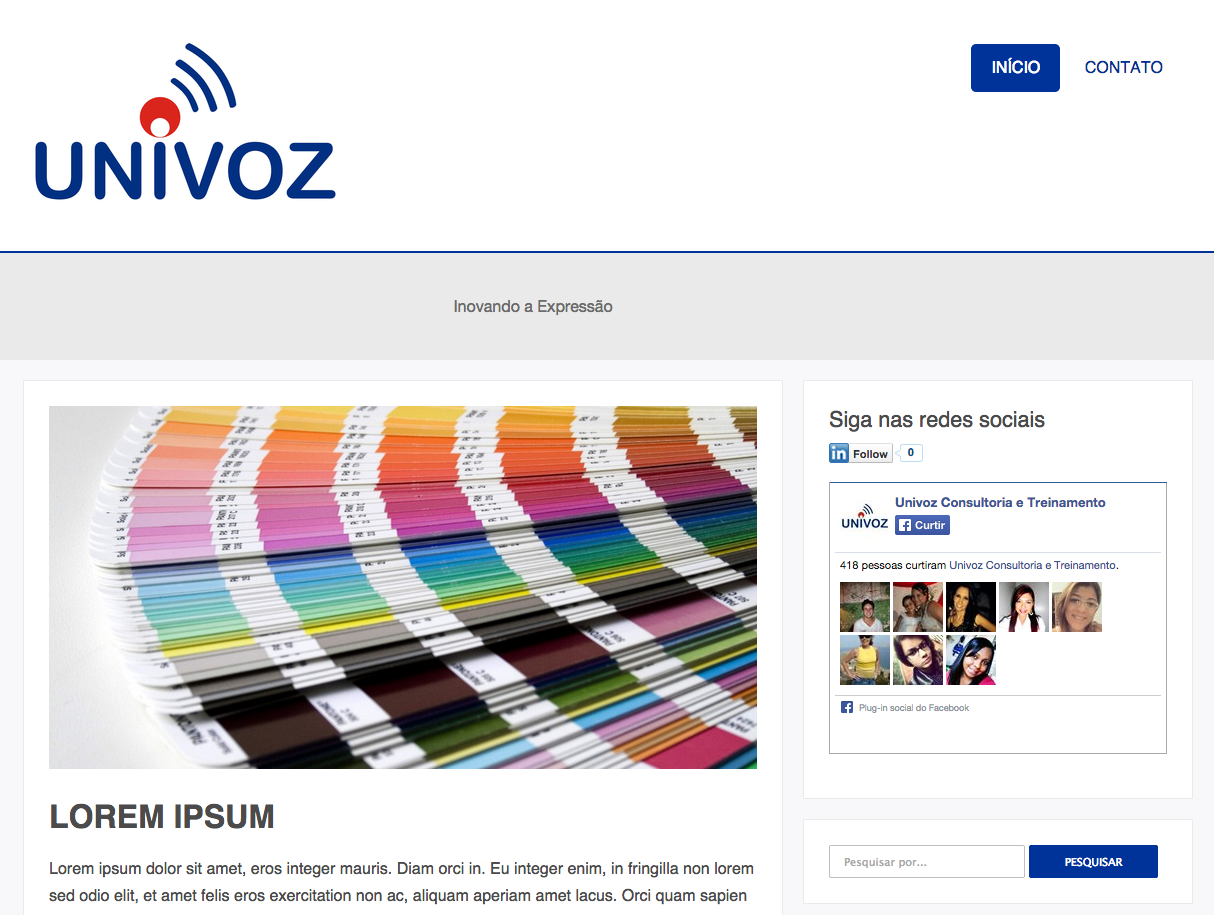
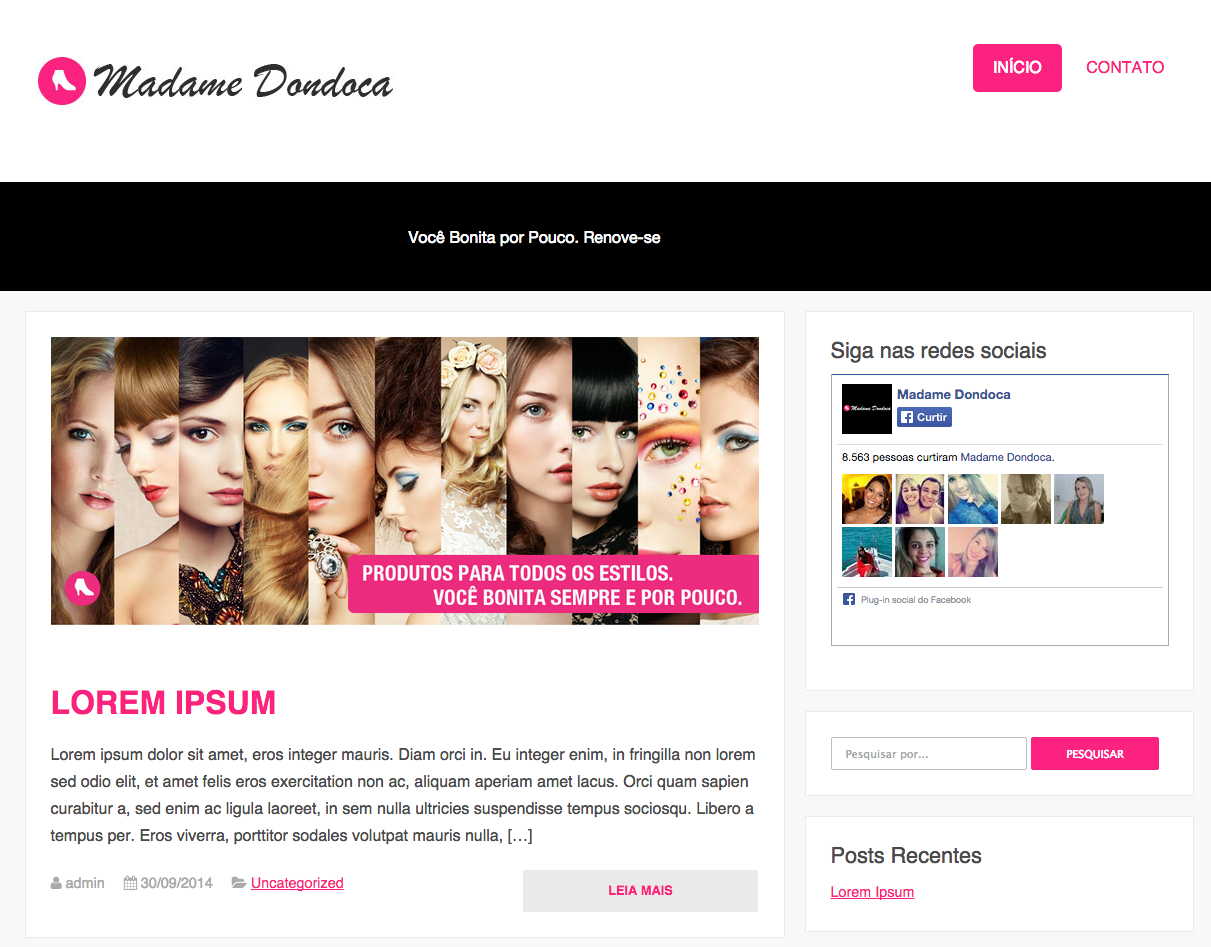
CSS done

diff --git a/assets/css/custom.css b/assets/css/custom.css
@@ -7,23 +7,23 @@ body {
   line-height: 1.7em;
 }
 h1, h2, h3, h4 { color: #4B4B4B; }
-a { color: #003399; }
+a { color: #fb237f; }
 h1 { font-size: 2em; }
 h2 { font-size: 1.5em; }
 h3 { font-size: 1.35em; }
 
 /* Header */
-#top-header { border-bottom: 2px solid #003399; }
-#top-header #primary-nav ul li.current_page_item a { background-color: #003399; color: #FFF; }
-#top-header #primary-nav ul li a:hover { background-color: rgba(0, 51, 153, 0.4); }
-#about-subscribe { background-color: #EAEAEA; }
-#about-subscribe h2 { color: #6B6B6B; }
+#top-header { border-bottom: 2px solid #000; }
+#top-header #primary-nav ul li.current_page_item a { background-color: #fb237f; color: #FFF; }
+#top-header #primary-nav ul li a:hover { background-color: #000; }
+#about-subscribe { background-color: #000; }
+#about-subscribe h2 { color: #fff; }
 #headline { background: #3f98b5; }
 #headline h3 { color: #FFF; font-size: 1.5em; }
 
 /* Post */
 .blog-post .post-meta { color: #AAA; }
-.blog-post h3, .blog-post h3 a { color: #4B4B4B; }
+.blog-post h3 a { color: #fb237f; }
 .post-date {
   background: #eaeaea;
   background: -moz-linear-gradient(-45deg,  #eaeaea 0%, #eaeaea 50%, #dddddd 51%, #dddddd 100%); /* FF3.6+ */
@@ -37,27 +37,27 @@ h3 { font-size: 1.35em; }
 }
 .read-more {
   background-color: #EAEAEA;
-  color: #003399;
+  color: #fb237f;
 }
 .read-more:hover {
-  background-color: rgba(0, 51, 153, 0.6);
-  color: #FFF;
+  background-color: #000;
+  color: #fb237f;
 }
 
 /* Footer */
-footer #top-footer { background-color: #003399; color: #FFF; }
+footer #top-footer { background-color: #000; color: #FFF; }
 footer #top-footer #social-icons li a, #top-footer h3, #top-footer a { color: #FFF; }
-footer #top-footer #social-icons li a:hover { color: #cc3300; }
+footer #top-footer #social-icons li a:hover { color: #fb237f; }
 footer #bottom-footer { background-color: #27282C; color: #FFF; }
 
 /* Buttons */
 #scroll-top a:hover,
 input[type="submit"],
 #comments .comment-reply-link {
-  background-color: #003399;
+  background-color: #fb237f;
   color: #FFF;
 }
 input[type="submit"]:hover,
 #comments .comment-reply-link:hover {
-  background-color: rgba(0, 51, 153, 0.6);
+  background-color: #000;
 }

diff --git a/assets/css/base.css b/assets/css/base.css
@@ -85,7 +85,7 @@ footer #social-icons li a { -webkit-transition: all .2s ease-in-out; -moz-transi
 #scroll-top a { padding: 4px 10px; -webkit-border-radius: 4px; -moz-border-radius: 4px; border-radius: 4px; background: #818c90; position: fixed; bottom: 48px; right: 32px; display: none; opacity: 0.89; filter: alpha(opacity=89); z-index: 999; text-align: center; }
 #scroll-top a i { font-size: 30px; color: #fff; }
 #scroll-top a, #scroll-top a i { cursor: pointer; -webkit-transition: all .2s ease-in-out; -moz-transition: all .2s ease-in-out; transition: all .2s ease-in-out; }
-#scroll-top a:hover { background-color: #cc3300 !important; cursor: pointer; }
+#scroll-top a:hover { background-color: #fb237f !important; cursor: pointer; }
 #scroll-top a:hover i { color: #fff; }
 
 /* Pagination */
